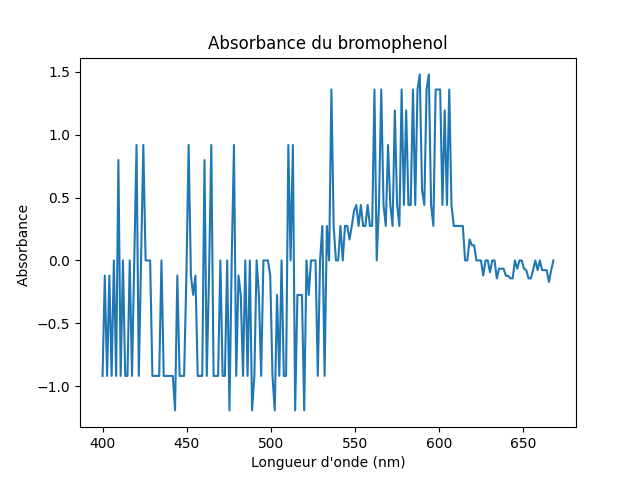
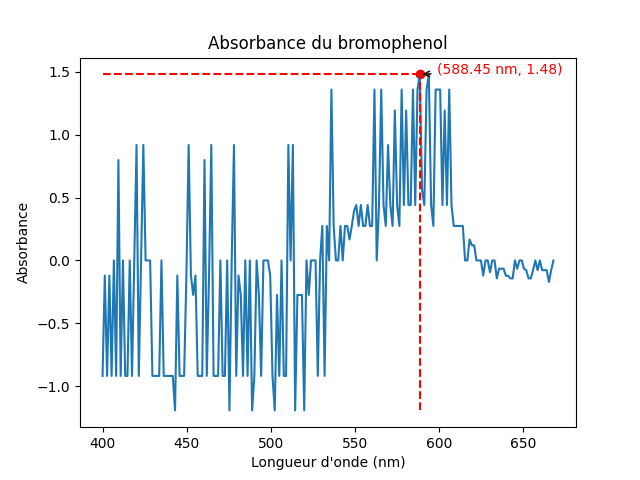
Analyse_des_pics_lissage_courbe

diff --git a/Analyse_de_courbes/Tracer_une_courbe_avec_exel.py b/Analyse_de_courbes/Tracer_une_courbe_avec_exel.py
@@ -3,22 +3,7 @@ import pandas as pd
 import matplotlib.pyplot as plt
 import ezodf
 import numpy as np
-
-
-# Lire le fichier ODS
-data_1 = pd.read_csv('Manip\Manip_24_03_2023\Fente_0_5mm\solution_blanc.csv', encoding='ISO-8859-1')
-data_2= pd.read_csv('Manip\Manip_24_03_2023\Fente_0_5mm\solution_echantillon1.csv', encoding='ISO-8859-1')
-# Obtenir les colonnes D et E
-Longueur_donde = data_1['Longueur d\'onde (nm)']
-Tension_blanc = data_1['Tension blanc (Volt)']
-Tension_echantillon= data_2['Tension échantillon (Volt)']
-Absorbance=np.log10(np.abs(Tension_blanc)/np.abs(Tension_echantillon))
-
-plt.plot(Longueur_donde, Absorbance)
-plt.xlabel('Nombre de point')
-plt.ylabel('Absorbance ')
-plt.title('Absorbance du bromophenol')
-plt.show()
+from scipy.signal import find_peaks
 
 def maximum(liste):
     maxi = liste[0]
@@ -30,9 +15,45 @@ def maximum(liste):
 
     return p
 
-print(max(Absorbance))
-print(maximum(Absorbance))
-print(Longueur_donde[maximum(Absorbance)]) # Pic d'absorbance
+# Lire le fichier ODS
+data_1 = pd.read_csv('Manip\Manip_24_03_2023\Fente_0_5mm\solution_blanc.csv', encoding='ISO-8859-1')
+data_2= pd.read_csv('Manip\Manip_24_03_2023\Fente_0_5mm\solution_echantillon1.csv', encoding='ISO-8859-1')
+
+# Obtenir les colonnes D et E
+Longueur_donde = data_1['Longueur d\'onde (nm)']
+Tension_blanc = data_1['Tension blanc (Volt)']
+Tension_echantillon= data_2['Tension échantillon (Volt)']
+Absorbance=np.log10(np.abs(Tension_blanc)/np.abs(Tension_echantillon))
+Pic_d_absorbance=max(Absorbance)
+Pic_longueur_donde=Longueur_donde[maximum((Absorbance))]
+
+# Création du graphique
+plt.plot(Longueur_donde, Absorbance)
+plt.xlabel('Longueur d\'onde (nm)')
+plt.ylabel('Absorbance')
+plt.title('Absorbance du bromophenol')
+
+# Mise en évidence du point de pic en rouge
+plt.scatter(Pic_longueur_donde, Pic_d_absorbance, color='red')
+
+
+# Annotation des coordonnées du point
+plt.annotate('({:.2f} nm, {:.2f})'.format(Pic_longueur_donde, Pic_d_absorbance),
+             xy=(Pic_longueur_donde , Pic_d_absorbance),
+             xytext=(Pic_longueur_donde + 10 , Pic_d_absorbance),
+             fontsize=10,
+             color='red',
+             arrowprops=dict(facecolor='red', arrowstyle='->'))
+
+# Ligne pointillée reliant le point de pic à l'axe des x
+plt.hlines(y=Pic_d_absorbance, xmin=Longueur_donde[0] , xmax=Pic_longueur_donde, linestyle='dashed', color='red')
+
+# Ligne pointillée reliant le point de pic à l'axe des y
+plt.vlines(x=Pic_longueur_donde, ymin=min(Absorbance), ymax=Pic_d_absorbance, linestyle='dashed', color='red')
+# Affichage du graphique
+plt.show()
+
+
 
 
 """

diff --git a/Lien_Moteur_Phidget.py b/Lien_Moteur_Phidget.py
@@ -200,7 +200,7 @@ def maximum(liste):
     return p
 
 
-def graph(nom_du_fichier_blanc, nom_du_fichier_echantillon, nom_echantillon):
+def graph(nom_du_fichier_blanc, nom_du_fichier_echantillon, nom_echantillon): # nom_du_fichier_blanc, nom_du_fichier_echantillon: (str) Chemin d'acces des fichier creer pour l'expérience 
     data_1 = pd.read_csv(nom_du_fichier_blanc,  encoding='ISO-8859-1')
     data_2= pd.read_csv(nom_du_fichier_echantillon,  encoding='ISO-8859-1')
 
@@ -209,14 +209,36 @@ def graph(nom_du_fichier_blanc, nom_du_fichier_echantillon, nom_echantillon):
     Tension_blanc = data_1['Tension blanc (Volt)']
     Tension_echantillon= data_2['Tension échantillon (Volt)']
     Absorbance=np.log10(np.abs(Tension_blanc)/np.abs(Tension_echantillon))
-# Longueur d'onde d'absorbance
-    print( "Longueur d'onde d'absorbance : ", Longueur_donde[maximum(Absorbance)])
-# Tracer le graphe
+    Pic_d_absorbance=max(Absorbance)
+    Pic_longueur_donde=Longueur_donde[maximum((Absorbance))]
+
+# Création du graphique
     plt.plot(Longueur_donde, Absorbance)
     plt.xlabel('Longueur d\'onde (nm)')
-    plt.ylabel('Absorbance ')
-    plt.title('Absorbance du' + nom_echantillon)
-    plt.show()  
+    plt.ylabel('Absorbance')
+    plt.title('Absorbance du '+ nom_echantillon)
+
+# Mise en évidence du point de pic en rouge
+    plt.scatter(Pic_longueur_donde, Pic_d_absorbance, color='red')
+
+
+# Annotation des coordonnées du point
+    plt.annotate('({:.2f} nm, {:.2f})'.format(Pic_longueur_donde, Pic_d_absorbance),
+             xy=(Pic_longueur_donde , Pic_d_absorbance),
+             xytext=(Pic_longueur_donde + 10 , Pic_d_absorbance),
+             fontsize=10,
+             color='red',
+             arrowprops=dict(facecolor='red', arrowstyle='->'))
+
+# Ligne pointillée reliant le point de pic à l'axe des x
+    plt.hlines(y=Pic_d_absorbance, xmin=Longueur_donde[0] , xmax=Pic_longueur_donde, linestyle='dashed', color='red')
+
+# Ligne pointillée reliant le point de pic à l'axe des y
+    plt.vlines(x=Pic_longueur_donde, ymin=min(Absorbance), ymax=Pic_d_absorbance, linestyle='dashed', color='red')
+# Affichage du graphique
+    plt.show()
+# Longueur d'onde d'absorbance
+ 
 
 
 """

diff --git a/Analyse_de_courbes/Recherche_des_pics.py b/Analyse_de_courbes/Recherche_des_pics.py
@@ -1,0 +1,48 @@
+import matplotlib.pyplot as plt
+import numpy as np
+import pandas as pd
+from scipy.signal import find_peaks
+
+# Définir la largeur de la fenêtre de recherche des pics
+window_width = 10
+
+
+# Définir la taille de la fenêtre de lissage
+smoothing_window_size = 5
+
+
+# Lire le fichier ODS
+data_1 = pd.read_csv('Manip\Manip_24_03_2023\Fente_1mm\solution_blanc.csv', encoding='ISO-8859-1')
+data_2= pd.read_csv('Manip\Manip_24_03_2023\Fente_1mm\solution_echantillon1.csv', encoding='ISO-8859-1')
+
+# Obtenir les colonnes D et E
+Longueur_donde = data_1['Longueur d\'onde (nm)']
+Tension_blanc = data_1['Tension blanc (Volt)']
+Tension_echantillon= data_2['Tension échantillon (Volt)']
+Absorbance=np.log10(np.abs(Tension_blanc)/np.abs(Tension_echantillon))
+
+# Lissage de la courbe d'absorbance
+smoothed_absorbance = Absorbance.rolling(smoothing_window_size, center=True).mean()
+
+# Recherche des pics d'absorbance
+peaks, _ = find_peaks(smoothed_absorbance, distance=window_width)
+
+# Affichage des pics détectés
+print('Les pics d\'absorbance se trouvent aux positions suivantes :')
+for i in peaks:
+    print('{:.2f} nm : {:.2f}'.format(Longueur_donde[i], smoothed_absorbance[i]))
+
+# Sauvegarde des coordonnées des pics dans un fichier CSV
+df = pd.DataFrame({'Longueur d\'onde (nm)': Longueur_donde[peaks], 'Absorbance': Absorbance[peaks]})
+df.to_csv('Analyse_de_courbes\peaks.csv', index=False)
+
+plt.plot(Longueur_donde, smoothed_absorbance)
+plt.plot(Longueur_donde[peaks], smoothed_absorbance[peaks], 'ro')
+plt.xlabel('Longueur d\'onde (nm)')
+plt.ylabel('Absorbance (lissée)')
+plt.title('Absorbance du bromophenol (lissée)')
+
+# Affichage du graphique
+plt.show()
+# Affichage du graphique
+plt.show()

diff --git a/Analyse_de_courbes/Recherche_des_pics_lissage_courbe.py b/Analyse_de_courbes/Recherche_des_pics_lissage_courbe.py
@@ -1,0 +1,41 @@
+import matplotlib.pyplot as plt
+import numpy as np
+import pandas as pd
+from scipy.signal import find_peaks, savgol_filter
+
+# Définir la largeur de la fenêtre de recherche des pics
+window_width = 10
+
+# Définir la taille de la fenêtre de lissage
+smoothing_window_size = 9
+
+# Lire le fichier ODS
+data_1 = pd.read_csv('Manip\Manip_24_03_2023\Fente_1mm\solution_blanc.csv', encoding='ISO-8859-1')
+data_2= pd.read_csv('Manip\Manip_24_03_2023\Fente_1mm\solution_echantillon1.csv', encoding='ISO-8859-1')
+
+# Obtenir les colonnes D et E
+Longueur_donde = data_1['Longueur d\'onde (nm)']
+Tension_blanc = data_1['Tension blanc (Volt)']
+Tension_echantillon= data_2['Tension échantillon (Volt)']
+Absorbance=np.log10(np.abs(Tension_blanc)/np.abs(Tension_echantillon))
+
+# Lissage de la courbe d'absorbance
+smoothed_absorbance = savgol_filter(Absorbance, window_length=smoothing_window_size, polyorder=3)
+
+# Recherche des pics d'absorbance
+peaks, _ = find_peaks(smoothed_absorbance, distance=window_width)
+
+# Affichage des pics détectés
+print('Les pics d\'absorbance se trouvent aux positions suivantes :')
+for i in peaks:
+    print('{:.2f} nm : {:.2f}'.format(Longueur_donde[i], smoothed_absorbance[i]))
+
+# Tracé de la courbe d'absorbance lissée avec les pics détectés
+plt.plot(Longueur_donde, smoothed_absorbance)
+plt.plot(Longueur_donde[peaks], smoothed_absorbance[peaks], 'ro')
+plt.xlabel('Longueur d\'onde (nm)')
+plt.ylabel('Absorbance (lissée)')
+plt.title('Absorbance du bromophenol (lissée)')
+
+# Affichage du graphique
+plt.show()
